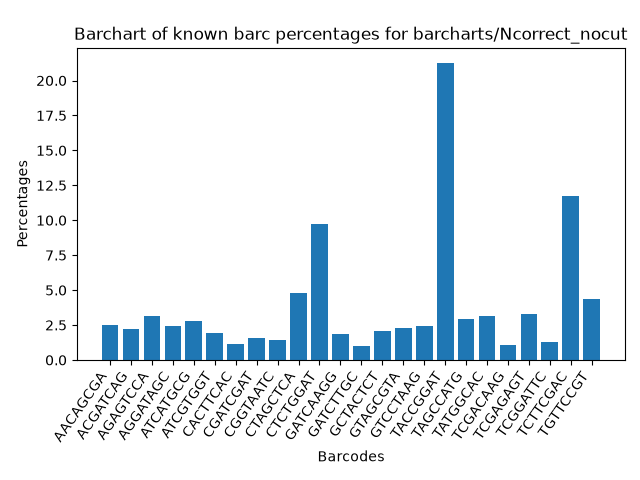
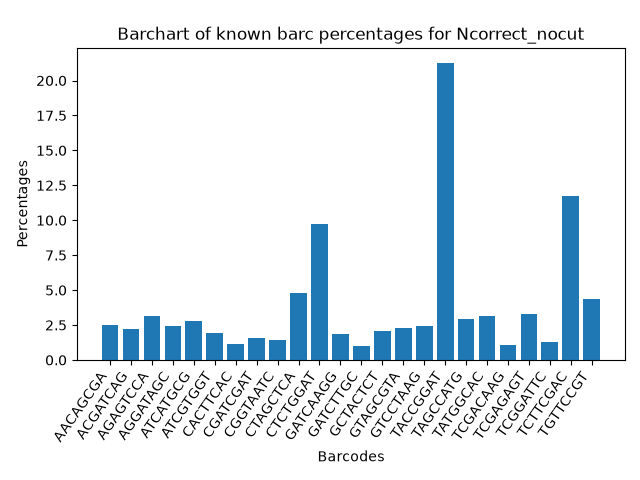
fixing outfile path for results

Changed region(s): [[0.0938, 0.0625, 1.0, 0.0938]]

diff --git a/Assignment-the-third/barchart_Ncorrbarcodes.py b/Assignment-the-third/barchart_Ncorrbarcodes.py
@@ -93,9 +93,9 @@ ax.bar(x + w/2, y_N, width=w, label='N correction')
 ax.set_ylabel("Number Observed")
 ax.set_xticks(x, labels=barcs_list, rotation=90, rotation_mode="xtick")
 ax.set_xticklabels(xvals)
-ax.set_title(f"Barchart of matched barcs for {outfilename.replace(".png","").replace("_chart","").replace("_", " ")}")
+ax.set_title(f"Barchart of matched barcs for {outfilename.replace(".png","").replace("_chart","").replace("_", "-").split('/')[-1]}")
 ax.legend()
 plt.subplots_adjust(top=0.90, left=.12, bottom=.25)
 
-plt.savefig(outfilename)
+plt.savefig(f"{outpath}/{outfilename}")
 

diff --git a/Assignment-the-third/barchart.py b/Assignment-the-third/barchart.py
@@ -99,7 +99,7 @@ ax.set_xticks(range(len(barcs_list)), labels=barcs_list,
 # ax.set_yticks(range(len(barcs_list)), labels=barcs_list)
 # plt.bar(xvals, yvals)
 plt.tight_layout()
-plt.title(f"Barchart of known barc percentages for {outfilename.replace(".png","").replace("_chart","")}")
+plt.title(f"Barchart of known barc percentages for {outfilename.replace(".png","").replace("_chart","").split('/')[-1]}")
 ax.set_xlabel("Barcodes")
 ax.set_ylabel("Percentages")
 plt.subplots_adjust(top=0.90, left=.12, bottom=.25)
